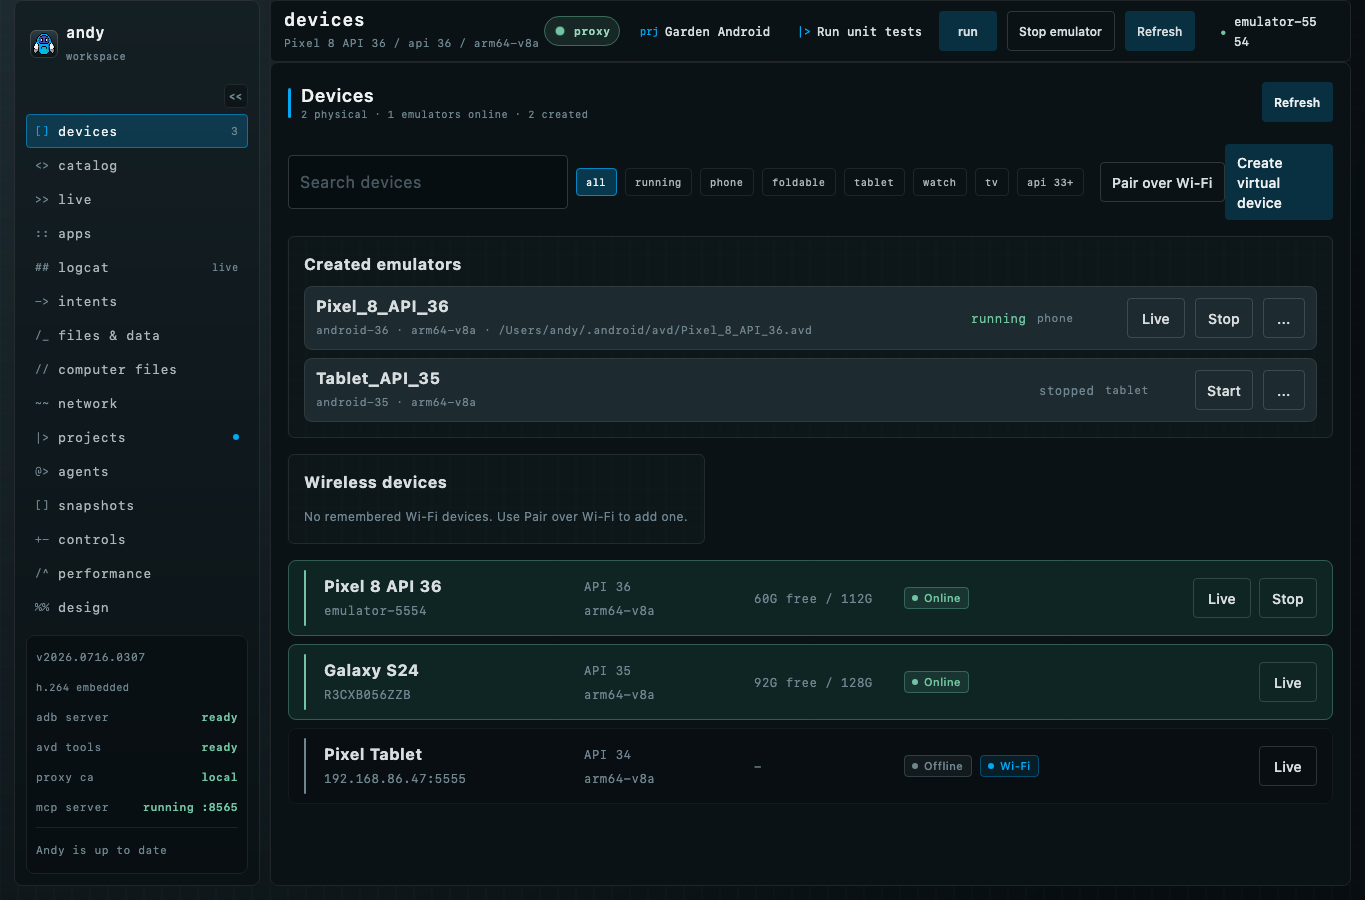
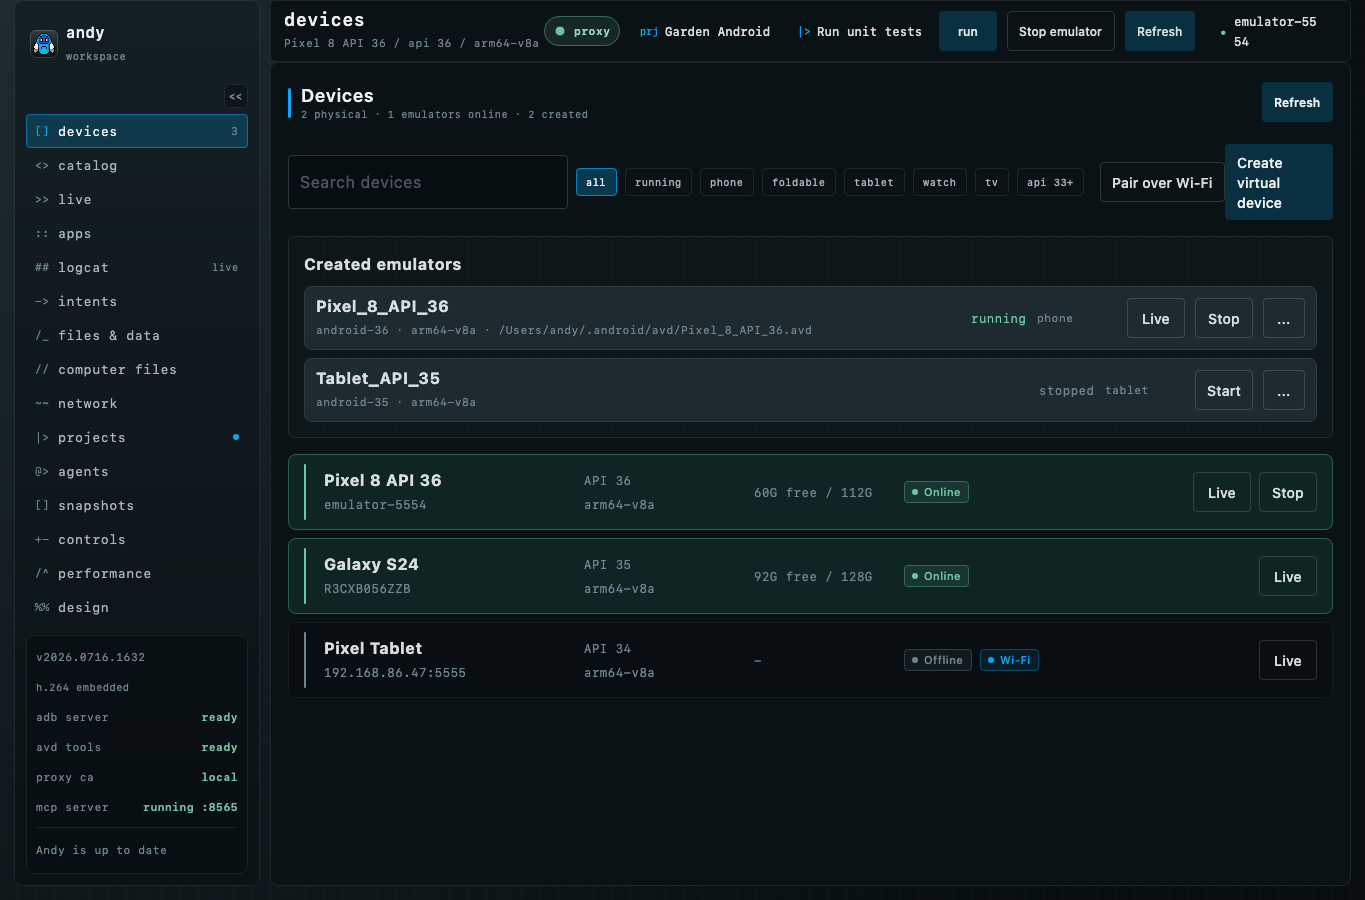
Hide empty wireless devices and match control panel accents.
Keep the devices list quieter when nothing is paired, and give Radios & display and Debug behavior the same Rust border as Hardware navigation.

diff --git a/src/commonMain/kotlin/app/andy/ui/devices/DevicesScreen.kt b/src/commonMain/kotlin/app/andy/ui/devices/DevicesScreen.kt
@@ -334,63 +334,59 @@ internal fun DevicesScreen(
                 }
             }
         }
-        if (allowWifiPairing) PanelCard {
+        if (allowWifiPairing && pairedWifiDevices.isNotEmpty()) PanelCard {
             Text("Wireless devices", color = TextPrimary, fontWeight = FontWeight.Bold)
             if (state.wifiStatus.isNotBlank()) {
                 Text(state.wifiStatus, color = TextSecondary, fontFamily = FontFamily.Monospace, fontSize = 12.sp)
             }
-            if (pairedWifiDevices.isEmpty()) {
-                Text("No remembered Wi‑Fi devices. Use Pair over Wi‑Fi to add one.", color = TextSecondary, fontSize = 12.sp)
-            } else {
-                Column(verticalArrangement = Arrangement.spacedBy(8.dp)) {
-                    pairedWifiDevices.forEach { paired ->
-                        val live = findLiveWifiDevice(devices, paired)
-                        val online = live?.state == DeviceConnectionState.Online
-                        Row(
-                            Modifier.fillMaxWidth()
-                                .heightIn(min = 48.dp)
-                                .background(PanelSoft, RoundedCornerShape(AndyRadius.R4))
-                                .border(1.dp, Border, RoundedCornerShape(AndyRadius.R4))
-                                .padding(horizontal = 12.dp, vertical = 8.dp),
-                            verticalAlignment = Alignment.CenterVertically,
-                            horizontalArrangement = Arrangement.spacedBy(10.dp),
-                        ) {
-                            Column(Modifier.weight(1f)) {
-                                Text(paired.displayName, color = TextPrimary, fontWeight = FontWeight.Bold)
-                                Text(
-                                    listOfNotNull(paired.mdnsInstanceName, paired.lastEndpoint, live?.serial)
-                                        .distinct()
-                                        .joinToString(" · "),
-                                    color = TextSecondary,
-                                    fontFamily = FontFamily.Monospace,
-                                    fontSize = 11.sp,
-                                    maxLines = 1,
-                                    overflow = TextOverflow.Ellipsis,
-                                )
-                            }
-                            StatusTag(if (online) "connected" else "disconnected", if (online) Green else TextSecondary)
-                            if (live != null && online) {
-                                OutlinedButton(onClick = { onLive(live.serial) }) { Text("Live") }
-                                OutlinedButton(onClick = {
-                                    state.wifiStatus = "Disconnecting ${live.serial}..."
-                                    onDisconnectWifi(live.serial)
-                                }) { Text("Disconnect") }
-                            } else {
-                                OutlinedButton(onClick = {
-                                    state.wifiStatus = "Reconnecting ${paired.displayName}..."
-                                    onReconnectPairedWifi(paired)
-                                }) { Text("Reconnect") }
-                            }
-                            OutlinedButton(onClick = {
-                                state.pendingConfirmation = PendingConfirmation(
-                                    "Forget ${paired.displayName}?",
-                                    "Removes this device from Andy's remembered Wi‑Fi list. It does not unpair on the phone.",
-                                ) {
-                                    onForgetPairedWifi(paired.id)
-                                    state.wifiStatus = "Forgot ${paired.displayName}"
-                                }
-                            }) { Text("Forget") }
+            Column(verticalArrangement = Arrangement.spacedBy(8.dp)) {
+                pairedWifiDevices.forEach { paired ->
+                    val live = findLiveWifiDevice(devices, paired)
+                    val online = live?.state == DeviceConnectionState.Online
+                    Row(
+                        Modifier.fillMaxWidth()
+                            .heightIn(min = 48.dp)
+                            .background(PanelSoft, RoundedCornerShape(AndyRadius.R4))
+                            .border(1.dp, Border, RoundedCornerShape(AndyRadius.R4))
+                            .padding(horizontal = 12.dp, vertical = 8.dp),
+                        verticalAlignment = Alignment.CenterVertically,
+                        horizontalArrangement = Arrangement.spacedBy(10.dp),
+                    ) {
+                        Column(Modifier.weight(1f)) {
+                            Text(paired.displayName, color = TextPrimary, fontWeight = FontWeight.Bold)
+                            Text(
+                                listOfNotNull(paired.mdnsInstanceName, paired.lastEndpoint, live?.serial)
+                                    .distinct()
+                                    .joinToString(" · "),
+                                color = TextSecondary,
+                                fontFamily = FontFamily.Monospace,
+                                fontSize = 11.sp,
+                                maxLines = 1,
+                                overflow = TextOverflow.Ellipsis,
+                            )
                         }
+                        StatusTag(if (online) "connected" else "disconnected", if (online) Green else TextSecondary)
+                        if (live != null && online) {
+                            OutlinedButton(onClick = { onLive(live.serial) }) { Text("Live") }
+                            OutlinedButton(onClick = {
+                                state.wifiStatus = "Disconnecting ${live.serial}..."
+                                onDisconnectWifi(live.serial)
+                            }) { Text("Disconnect") }
+                        } else {
+                            OutlinedButton(onClick = {
+                                state.wifiStatus = "Reconnecting ${paired.displayName}..."
+                                onReconnectPairedWifi(paired)
+                            }) { Text("Reconnect") }
+                        }
+                        OutlinedButton(onClick = {
+                            state.pendingConfirmation = PendingConfirmation(
+                                "Forget ${paired.displayName}?",
+                                "Removes this device from Andy's remembered Wi‑Fi list. It does not unpair on the phone.",
+                            ) {
+                                onForgetPairedWifi(paired.id)
+                                state.wifiStatus = "Forgot ${paired.displayName}"
+                            }
+                        }) { Text("Forget") }
                     }
                 }
             }

diff --git a/src/commonMain/kotlin/app/andy/ui/controls/ControlsScreen.kt b/src/commonMain/kotlin/app/andy/ui/controls/ControlsScreen.kt
@@ -90,6 +90,7 @@ internal fun ControlsScreen(devices: DeviceService, mirror: MirrorEngine, serial
                 ControlSection(
                     title = "Radios & display",
                     description = "Apply device-wide connectivity and appearance changes.",
+                    accent = Rust,
                 ) {
                     CommandTile(
                         label = "Airplane mode",
@@ -139,6 +140,7 @@ internal fun ControlsScreen(devices: DeviceService, mirror: MirrorEngine, serial
                 ControlSection(
                     title = "Debug behavior",
                     description = "Expose visual diagnostics and control how testable the app lifecycle is.",
+                    accent = Rust,
                 ) {
                     CommandTile(
                         label = "Show taps",